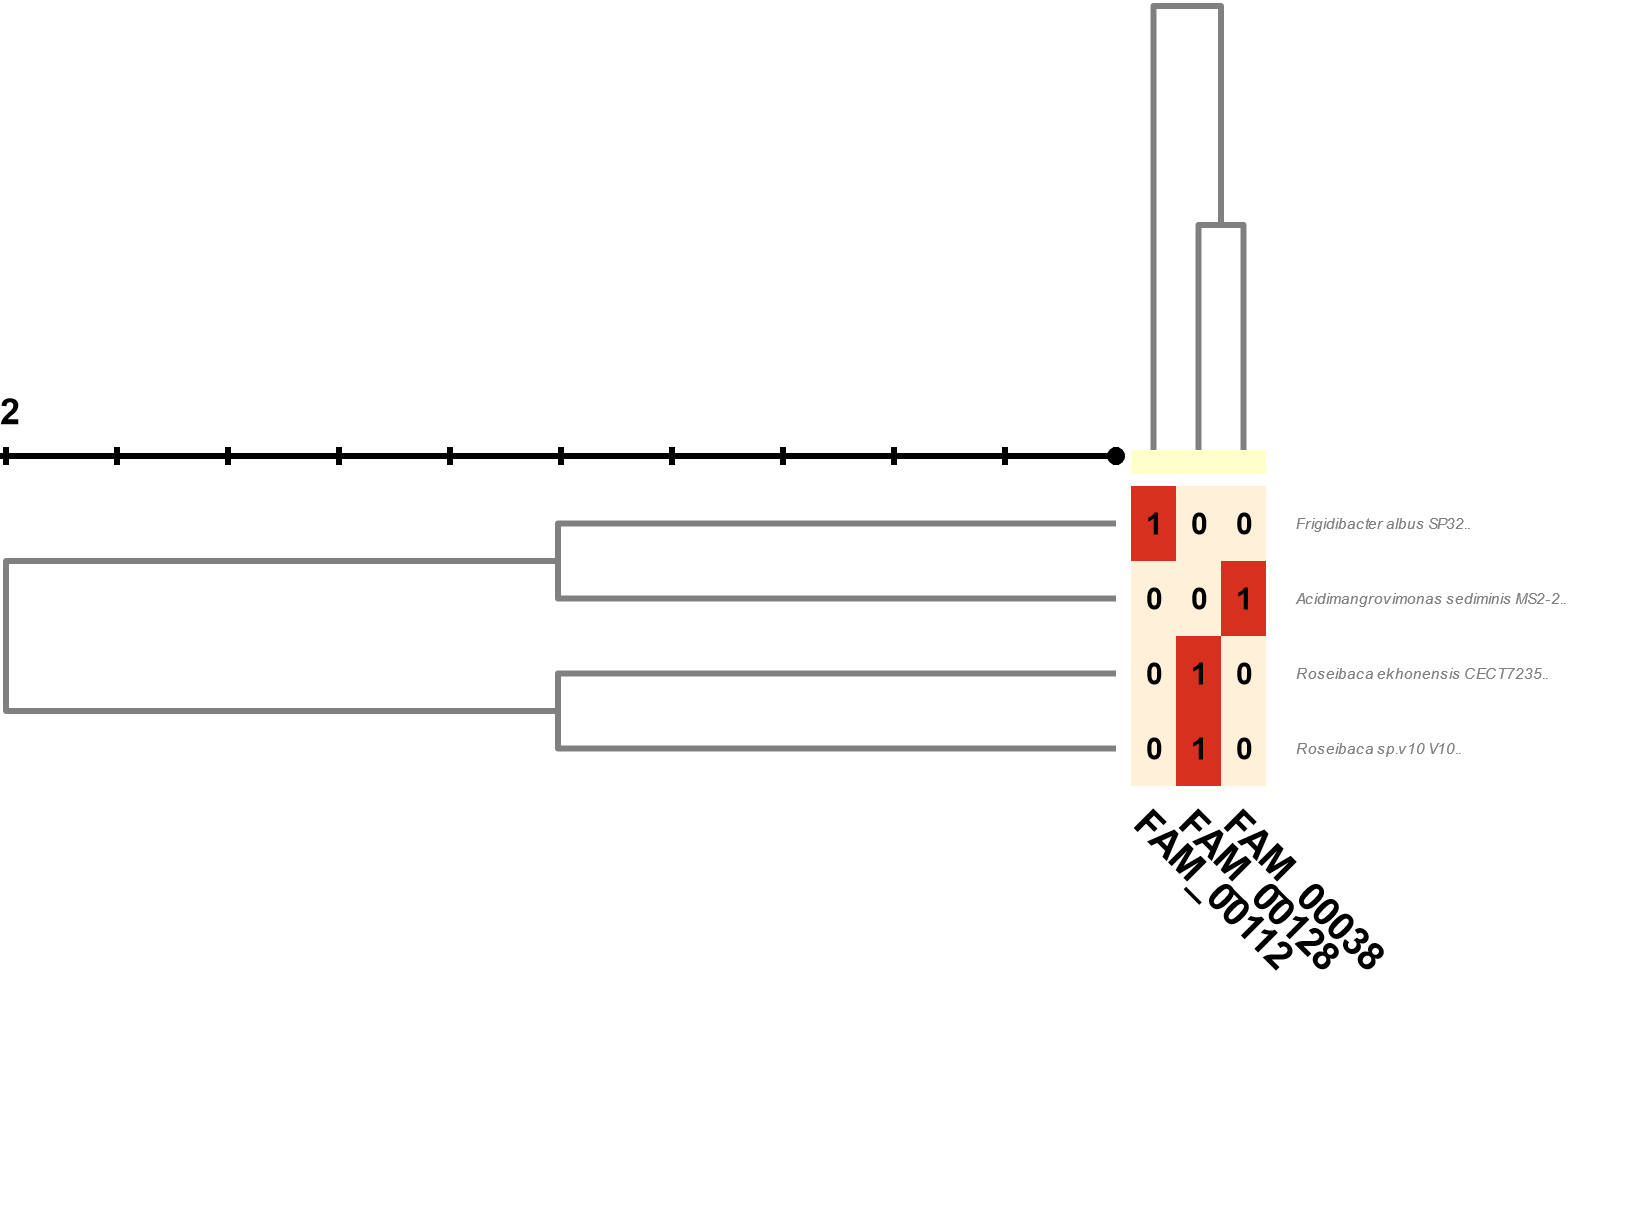
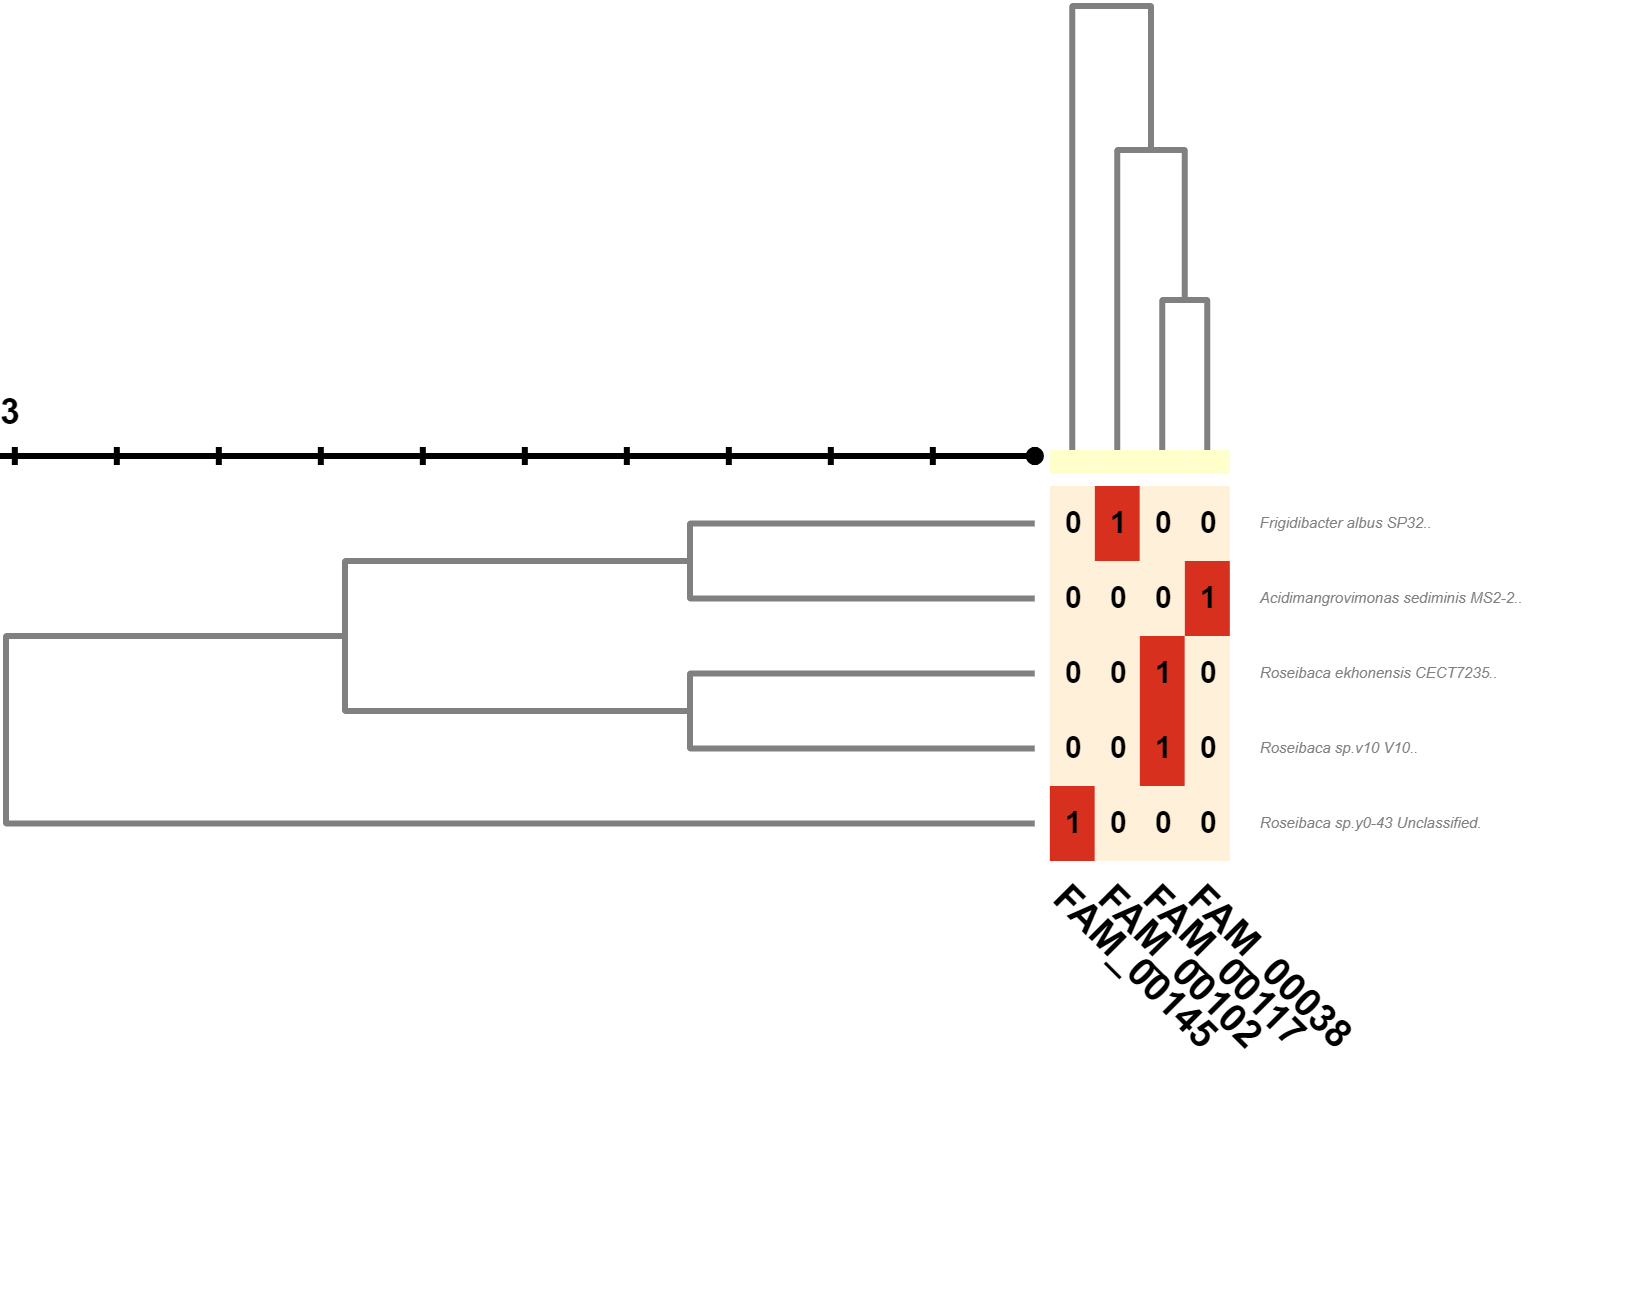
update readme

Changed region(s): [[0.0, 0.0, 0.9273, 0.8072]]

diff --git a/README.md b/README.md
@@ -79,16 +79,16 @@ mv $id.prokka.gbk $id2.gbk
 done
 ~~~
 
-## [Biosynthetic Gene Cluster (BGC) Clustering](https://github.com/shadayguerrero/Roseibaca/tree/main/antismash) 
-We used **antiSMASH 6.0.0** to search for BGCs, and the results were stored in the [antismash](https://github.com/shadayguerrero/Roseibaca/tree/main/antismash) folder. Additionally, we used the [change-names.sh](/antismash/change-names.sh) script, which adds the strain details to each of the regions found by antiSMASH.
+## [Biosynthetic Gene Cluster (BGC) Clustering](https://github.com/shadayguerrero/Roseibaca/tree/main/antismash7) 
+We used **antiSMASH 7.0.0** to search for BGCs, and the results were stored in the [antismash7](https://github.com/shadayguerrero/Roseibaca/tree/main/antismash7) folder. Additionally, we used the [change-names.sh](/antismash/change-names.sh) script, which adds the strain details to each of the regions found by antiSMASH.
 
-We found 7 BGCs for *Roseibaca* V10, as can be seen in the output of [antismash](/antismash/GCF_023336755.1_Roseibaca_sp.V10_V10/index.html). The relationship of these clusters with other clusters in different genomes still needs to be investigated.
+We found 6 BGCs for *Roseibaca* V10, as can be seen in the output of [antismash](/antismash7/GCF_023336755.1_Roseibaca_sp.V10_V10/index.html). The relationship of these clusters with other clusters in different genomes still needs to be investigated.
 
 
-## [BGC Similarity Networks](https://github.com/shadayguerrero/Roseibaca/tree/main/bigscape)
-To identify the groups of BGCs that are forming and to determine in which groups Roseibaca sp.V10 is present, we used **BiG-SCAPE 1.1.2**. The results can be found in the [bigscpae/output](https://github.com/shadayguerrero/Roseibaca/tree/main/bigscape/output) folder.
+## [BGC Similarity Networks]https://github.com/shadayguerrero/Roseibaca/tree/main/bigscape_nuevos)
+To identify the groups of BGCs that are forming and to determine in which groups Roseibaca sp.V10 is present, we used **BiG-SCAPE 1.1.2**. The results can be found in the [bigscpae_nuevos/output_210723_4](https://github.com/shadayguerrero/Roseibaca/tree/main/bigscape_nuevos/output_210723_4) folder.
 
-A graphical exploration of the **BiG-SCAPE** results can be seen at [bigscpae/output/index.html](/bigscape/output/index.html).
+A graphical exploration of the **BiG-SCAPE** results can be seen at [bigscpae_nuevos/output_210723_4/index.html](/bigscape_nuevos/output_210723_4/index.html).
 
 ### Terpene
 We have the following table showing the presence and absence of genomes containing the BGC that produces **Terpene**.
@@ -97,13 +97,13 @@ We have the following table showing the presence and absence of genomes containi
  
 In this table, we can observe the family **FAM_00127**, which includes our target genome *Roseibaca_sp.V10*. 
 
-FAM_00127
-1. GCF_001517585.1_Roseibaca_calidilacus_HL-91-NZ_FBYC01000004.region001
-2. GCF_023336755.1_Roseibaca_sp.V10_V10-c00001_NZ_JALZ...region001
-3. GCF_900499075.1_Roseibaca_ekhonensis_CECT_7235-NZ_UIHC01000012.region001
+FAM_00146
+1. GCF_001517585.1_Roseibaca_calidilacus_HL-91-NZ_FBYC01000004.1.region001
+2. GCF_023336755.1_Roseibaca_sp.V10_V10-NZ_JALZWP010000001.1.region001
+3. GCF_900499075.1_Roseibaca_ekhonensis_CECT_7235-NZ_UIHC01000012.1.region001
+4. GCF_020667835.1_Roseibaca_sp.Y0-43_Y0-43-NZ_JAFMPR010000008.1.region001
 
-
-<img src="svg/FAM_00127.svg" width="1200"/>
+<img src="svg/FAM_00146.svg" width="1200"/>
 
 
 ### RiPPs
@@ -113,12 +113,13 @@ We have the following table showing the presence and absence of genomes containi
  
  In this table, we can observe the family **FAM_00132**, which includes our target genome *Roseibaca_sp.V10*.
 
-FAM_00132
+
+FAM_00120
 1. GCF_023336755.1_Roseibaca_sp.V10_V10-c00009_NZ_JALZ...region001
 2. GCF_900499075.1_Roseibaca_ekhonensis_CECT_7235-NZ_UIHC01000019.region001
 
 
-<img src="svg/FAM_00132.svg" width="1200"/>
+<img src="svg/FAM_00120.svg" width="1200"/>
 
 ### PKSother
 
@@ -128,11 +129,12 @@ We have the following table showing the presence and absence of genomes containi
 
 we can observe the family **FAM_00128**, which includes our target genome *Roseibaca_sp.V10*.
 
-FAM_00128
-1. GCF_023336755.1_Roseibaca_sp.V10_V10-c00002_NZ_JALZ...region001
-2. GCF_900499075.1_Roseibaca_ekhonensis_CECT_7235-NZ_UIHC01000006.region001
 
-<img src="svg/FAM_00128.svg" width="1200"/>
+FAM_00117
+1. GCF_023336755.1_Roseibaca_sp.V10_V10-NZ_JALZWP010000002.1.region001
+2. GCF_900499075.1_Roseibaca_ekhonensis_CECT_7235-NZ_UIHC01000006.1.region001
+
+<img src="svg/FAM_00117.svg" width="1200"/>
 
 ## [CORASON](https://github.com/shadayguerrero/Roseibaca/tree/main/corason/svg) 
 
